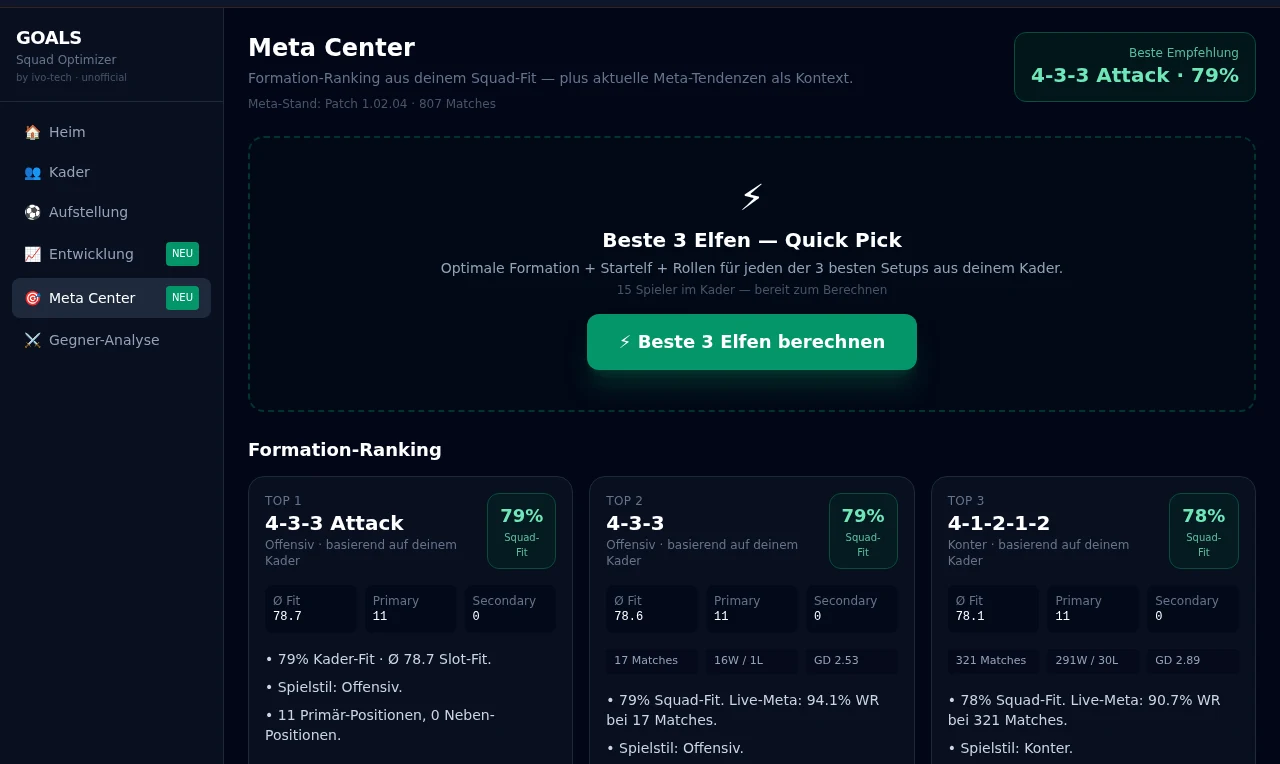
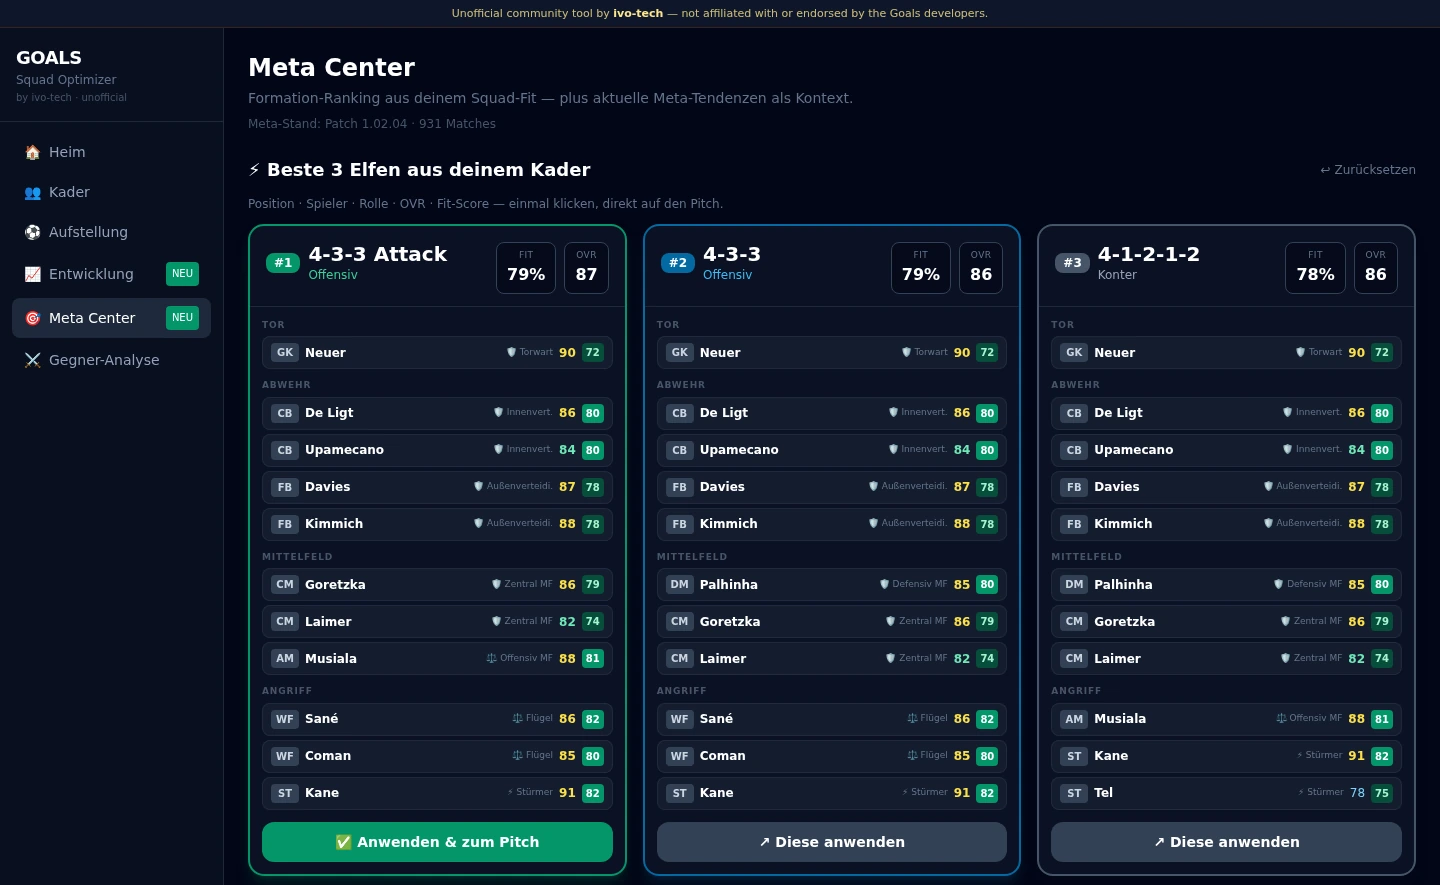
[verified] feat: strengthen GOALS case evidence

diff --git a/src/data/projects.ts b/src/data/projects.ts
@@ -81,7 +81,7 @@ export const projects: Project[] = [
     screenshots: [
       { src: goalsImages.squad, caption: 'Kaderanalyse mit KPIs, Stärken, Baustellen und Position-Fit' },
       { src: goalsImages.lineup, caption: 'Formation Optimizer mit Empfehlungen und vollständiger Startelf' },
-      { src: goalsImages.meta, caption: 'Meta Center mit Quick Pick und Formation-Ranking' },
+      { src: goalsImages.meta, caption: 'Meta Quick Pick mit drei berechneten Startelfen, Rollen, OVR und Fit' },
     ],
     impact: [{ value: '408', label: 'Tests' }, { value: 'Live', label: 'goals.ivo-tech.com' }, { value: 'Mobile', label: 'Mobile-first' }],
     result: 'Aus verteilten Community-Daten wird ein nutzbares Entscheidungs-Tool: Import, Fit, Formation, Matchup und Development in einer App.',
